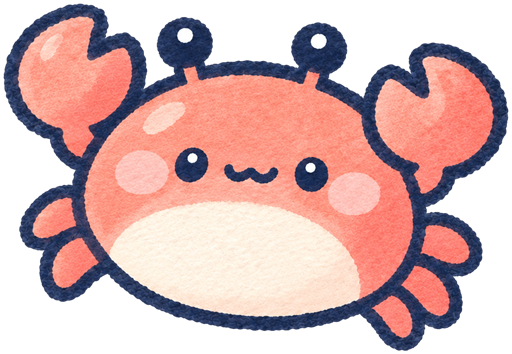
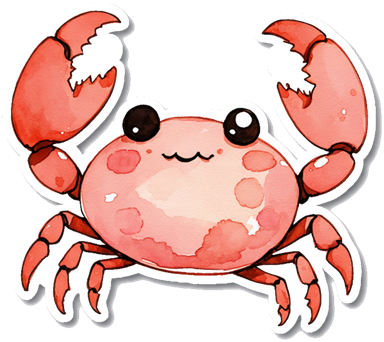
feat(desktop): 캐릭터 22마리를 Bedrock으로 다시 그린 스티커 그림체로 — 배경 없는 PNG와 역할 연결 표

diff --git a/docs/design/character-art.md b/docs/design/character-art.md
@@ -1,0 +1,37 @@
+# 캐릭터 그림 만드는 법
+
+2026-11-08. 앱 캐릭터 22마리(`packages/desktop/src/renderer/assets/characters/`, 역할 → 그림은 같은 폴더의 `characters.json`)는 사용자의 AWS Bedrock으로 그린 그림이다. 마음에 안 드는 마리만 다시 뽑을 수 있게 방법을 적어 둔다.
+
+## 모델과 호출
+
+- 모델: `stability.stable-image-ultra-v1:1` (글자만으로 그리기). 리전 `us-west-2`, AWS 프로필 `default`(aws configure). 같은 계정의 zzenddo-plugin도 같은 리전·Stability 모델을 쓴다.
+- 호출: `aws bedrock-runtime invoke-model --model-id stability.stable-image-ultra-v1:1 --body fileb://요청.json --cli-binary-format raw-in-base64-out --region us-west-2 --profile default 응답.json`
+- 요청 본문: `{ "prompt": ..., "negative_prompt": ..., "aspect_ratio": "1:1", "output_format": "png" }`. 응답의 `images[0]`이 base64 PNG.
+- 비용: 한 장에 몇십 센트가 아니라 대략 0.14달러 안팎으로 보고 있다(제 추정, 청구서로 확인하지 않음). 마음에 드는 그림이 안 나와 다시 뽑을 때 쌓인다.
+- 써 보고 버린 것: `us.stability.stable-image-style-guide-v1:0`(돌고래 그림을 그림체 참고로 넣기). 색이 돌고래 파랑으로 번지고 윤곽선이 얇아서 버렸다. 이 모델은 모델 ID가 아니라 추론 프로필 ID(`us.` 접두사)로 불러야 한다.
+
+## 문장
+
+```
+kawaii sticker illustration of a cute chubby {동물 설명}, very round simple chibi shape,
+BOLD THICK dark navy marker outline around the entire body, soft flat watercolor fill with
+paper texture, two tiny black dot eyes each with a white highlight, soft pink blush circles,
+tiny omega-shaped smile, pastel colors, full body, centered, isolated on a pure white (#FFFFFF)
+background, white page, no ground, no shadow, no text
+```
+
+negative_prompt:
+
+```
+wooden table, wood, desk, card, frame, app icon, rounded square, border box, colored background,
+lavender background, thin lines, sketch, realistic, natural history illustration, botanical, ground,
+floor, shadow, splatter, droplets, bubbles, text, letters, watermark, logo, photo, 3d render,
+multiple characters, scenery, gradient background
+```
+
+- 같은 문장으로 뽑아도 매번 다르게 나온다. 배경에 색이나 나무 탁자, 카드 틀이 생기면 다시 뽑는다(22마리 중 5마리가 한 번은 그랬다).
+- 동물 설명에는 색을 꼭 적는다(예: `a baby sea turtle, soft mint green shell with a cream belly`). 그림체 참고 이미지를 넣지 않아서 색은 글자로만 정해진다.
+
+## 배경 지우기
+
+흰 바탕에서 가장자리와 이어진 밝은 곳(RGB 최솟값 205 이상)만 지운다. 몸 안쪽 흰 배는 윤곽선이 막고 있어서 남는다. 스티커의 흰 테두리와 옅은 그림자 일부는 남아서 어두운 앱 바탕 위에서 스티커처럼 보인다. 앱에서는 가로 384px 이하로 줄여서 쓴다.
